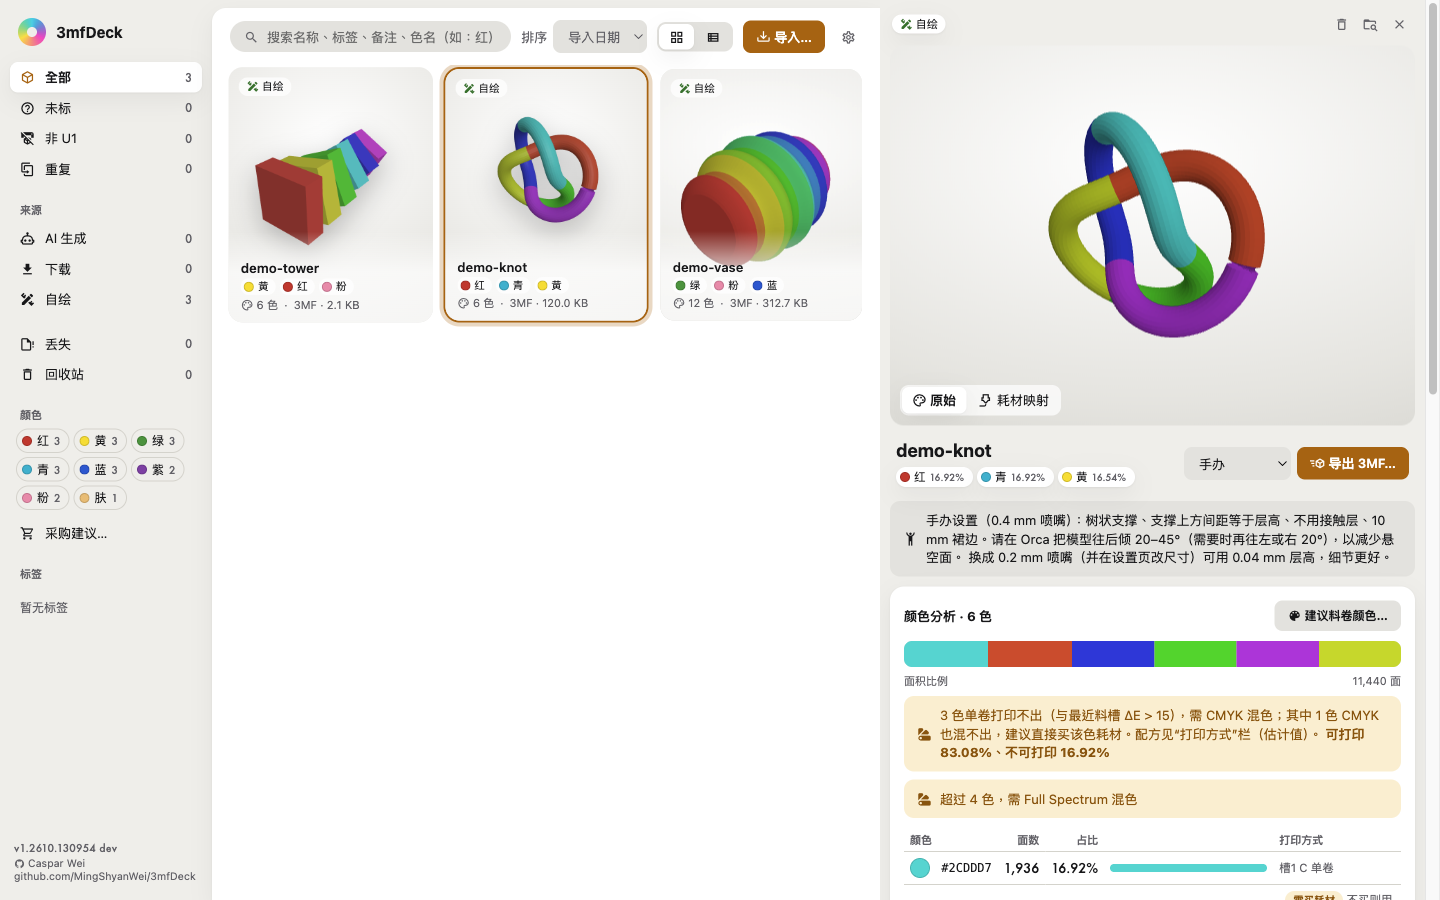
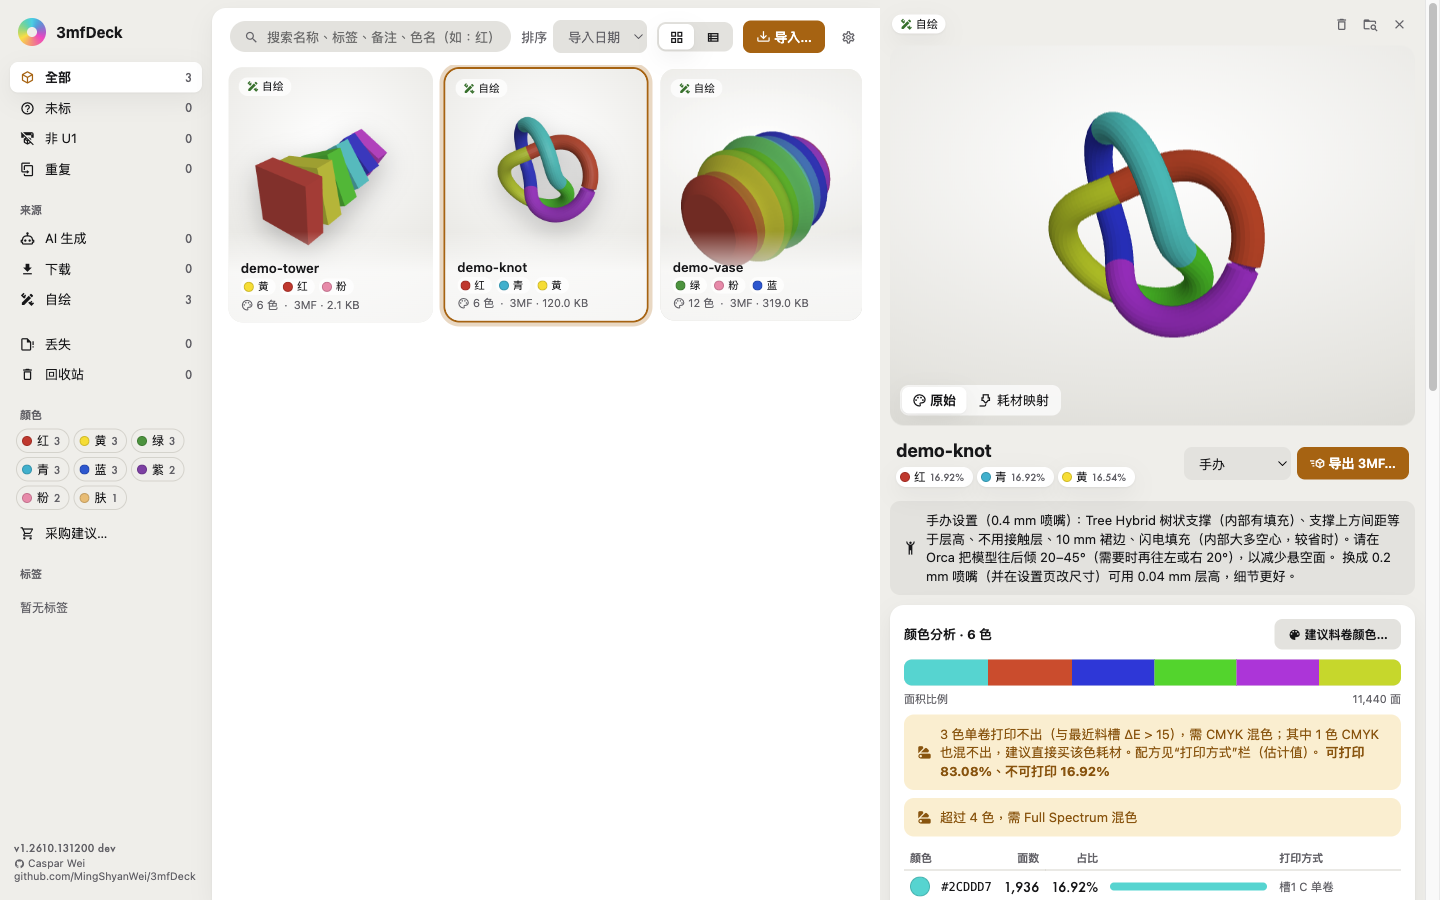
Smoke shows renderer errors when a step fails; 公仔 hint names the current settings
- Smoke: collected console problems (incl. renderer pageerrors) are now
  printed in the finally block, so they show even when an assertion stops
  the run. In M35 a call to a removed function in DetailPanel's load threw
  in the renderer, the plate-switcher assertion failed first and the
  collected error was never shown. Checked by putting that call back: the
  run now fails with "[renderer pageerror] setConverted is not defined".
- The in-app 公仔 hint (en / zh-TW / zh-CN) still described the M34
  preset; it now names Tree Hybrid supports with infill inside and the
  lightning infill. A unit test ties the hint to what the preset writes.
  Screenshot 6 regenerated in all three languages (the others unchanged).

Changed region(s): [[0.625, 0.56, 1.0, 1.0], [0.5312, 0.3111, 0.5625, 0.3422], [0.0312, 0.9333, 0.0625, 0.9644]]

diff --git a/README.md b/README.md
@@ -136,7 +136,7 @@ git clone git@github.com:MingShyanWei/3mfDeck.git
 cd 3mfDeck
 npm install
 npm run dev        # vite build + start Electron
-npm test           # Vitest unit tests (336)
+npm test           # Vitest unit tests (337)
 npm run smoke      # Electron end-to-end smoke test (isolated folders and database)
 npm run dist       # package the macOS dmg (file names carry the build version)
 node scripts/release-notes.mjs  # release notes with the build marker, sizes and SHA256
@@ -161,7 +161,7 @@ src/core/          Pure logic, testable on its own: parsing, colours, mixing, ex
   orcaProfiles.mjs Reads the local Snapmaker Orca printer profiles (geometry only, no network)
 src/core/i18n/     UI dictionaries (en / zh-TW / zh-CN)
 src/renderer/      React UI (three.js preview, detail panel, dialogs)
-tests/unit/        Vitest (36 files, 336 tests)
+tests/unit/        Vitest (36 files, 337 tests)
 tests/smoke/       Real Electron end-to-end test
 docs/user-guide*.md User guide (en / zh-TW / zh-CN)
 docs/screenshots/  README screenshots (en / zh-TW / zh-CN)
